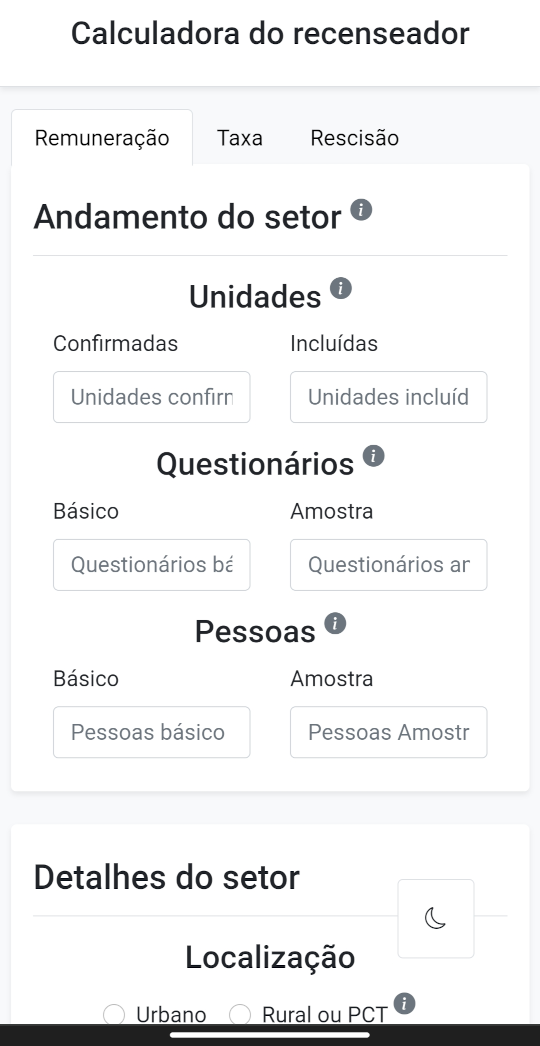
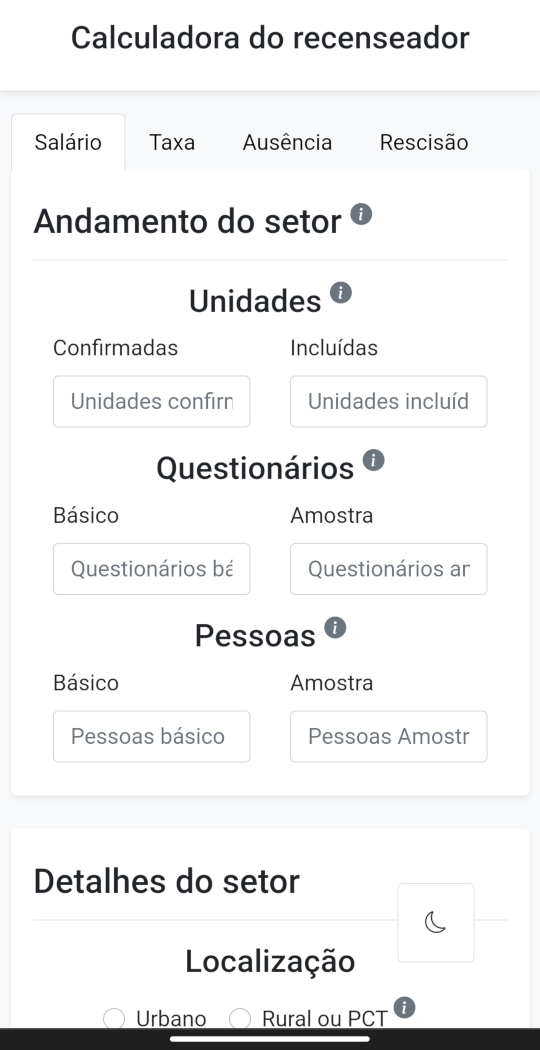
Possibilita o cálculo da taxa de ausência do setor

diff --git a/js/app.min.js b/js/app.min.js
@@ -1,1 +1,1 @@
-const tooltipTriggerList=[].slice.call(document.querySelectorAll('[data-bs-toggle="tooltip"]'));tooltipTriggerList.map(function(e){return new bootstrap.Tooltip(e)});const quizBasic=$("#quizBasic"),quizSample=$("#quizSample"),calcIncome=$("#btnCalcIncome"),calcTax=$("#btnCalcTax"),calcTermination=$("#btnCalcTermination"),formIncome=$("#incomeForm"),formTermination=$("#terminationForm"),formTax=$("#taxForm");let darkMode=localStorage.getItem("prefer"),mode=!0;null!==darkMode&&(darkMode="1"===darkMode),(!window.matchMedia("(prefers-color-scheme: dark)").matches||darkMode)&&(null===darkMode||darkMode)||changeTheme(!1);const currency=e=>e.toLocaleString("pt-br",{style:"currency",currency:"BRL"}),active=e=>mode?e.addClass("bg-dark"):e.addClass("bg-white"),disabled=e=>mode?e.removeClass("bg-dark"):e.removeClass("bg-white");let taxes={1:{urban:{unit:.51,basic:{people:.9,quiz:1.21},sample:{people:1.51,quiz:1.41}},rural:{unit:.56,basic:{people:1.01,quiz:1.34},sample:{people:1.67,quiz:1.57}}},2:{urban:{unit:.56,basic:{people:1.01,quiz:1.34},sample:{people:1.67,quiz:1.57}},rural:{unit:.62,basic:{people:1.1,quiz:1.46},sample:{people:1.83,quiz:1.7}}},3:{urban:{unit:.62,basic:{people:1.1,quiz:1.46},sample:{people:1.83,quiz:1.7}},rural:{unit:.69,basic:{people:1.21,quiz:1.61},sample:{people:2.01,quiz:1.89}}},4:{urban:{unit:.69,basic:{people:1.21,quiz:1.61},sample:{people:2.01,quiz:1.89}},rural:{unit:.75,basic:{people:1.33,quiz:1.76},sample:{people:2.21,quiz:2.07}}},5:{urban:{unit:.75,basic:{people:1.33,quiz:1.76},sample:{people:2.21,quiz:2.07}},rural:{unit:.82,basic:{people:1.46,quiz:1.94},sample:{people:2.45,quiz:2.28}}},6:{urban:{unit:.82,basic:{people:1.46,quiz:1.94},sample:{people:2.45,quiz:2.28}},rural:{unit:.9,basic:{people:1.6,quiz:2.14},sample:{people:2.68,quiz:2.51}}},7:{urban:{unit:.9,basic:{people:1.6,quiz:2.14},sample:{people:2.68,quiz:2.51}},rural:{unit:1,basic:{people:1.76,quiz:2.36},sample:{people:2.94,quiz:2.76}}},8:{urban:{unit:1,basic:{people:1.94,quiz:2.6},sample:{people:3.25,quiz:3.03}},rural:{unit:1.11,basic:{people:2.01,quiz:2.67},sample:{people:3.32,quiz:3.1}}},9:{urban:{unit:1.19,basic:{people:2.33,quiz:3.12},sample:{people:3.9,quiz:3.64}},rural:{unit:1.33,basic:{people:2.42,quiz:3.2},sample:{people:3.98,quiz:3.72}}},10:{urban:{unit:1.31,basic:{people:2.56,quiz:3.43},sample:{people:4.29,quiz:4}},rural:{unit:1.46,basic:{people:2.66,quiz:3.52},sample:{people:4.38,quiz:4.09}}},11:{urban:{unit:1.44,basic:{people:2.82,quiz:3.77},sample:{people:4.72,quiz:4.4}},rural:{unit:1.61,basic:{people:2.93,quiz:3.87},sample:{people:4.82,quiz:4.5}}}};function calcINSS(e){let a={taxe:14,discount:0};return e<=1212?a.taxe=7.5:e<=2427.35?(a.taxe=9,a.discount=18.18):e<=3641.03?(a.taxe=12,a.discount=91.01):e<=7087.22?(a.taxe=14,a.discount=163):a.discount=163-7087.22*.14,e<=7087.22&&(a.discount-=e/100*a.taxe),a}function calcIRRF(e){let a={taxe:0,discount:0};return e<=1903.98?a.taxe=0:e<=2826.65?(a.taxe=7.5,a.discount=142.8):e<=3751.05?(a.taxe=15,a.discount=354.8):e<=4664.68?(a.taxe=22.5,a.discount=636.13):(a.taxe=27.5,a.discount=869.36),a.discount-=e/100*a.taxe,a}function changeTheme(e=!0){(mode=!mode)?($(".form-control").addClass("form-control-dark"),$(".form-check-input").addClass("form-check-dark"),$("body").addClass("bg-black").addClass("text-gray").removeClass("bg-light"),$(".shadow-sm").addClass("bg-dark").removeClass("bg-white"),$(".list-group-item").addClass("bg-dark").addClass("text-gray"),$(".income").addClass("text-gray"),$(".btn").addClass("btn-dark").removeClass("btn-secondary"),$(".dark-mode").addClass("bg-dark"),$(".bg-change").removeClass("bg-white"),$(".bi-moon").addClass("bi-sun").removeClass("bi-moon"),$(".input-group-text").addClass("input-group-text-dark"),$(".nav-tabs").addClass("bg-black").removeClass("bg-light"),$(".nav-tabs a").addClass("text-light").removeClass("text-black"),$(".nav-tabs a.bg-white").addClass("bg-dark").removeClass("bg-white"),e&&localStorage.setItem("prefer","1")):($(".form-control").removeClass("form-control-dark"),$(".form-check-input").removeClass("form-check-dark"),$("body").removeClass("bg-black").removeClass("text-gray").addClass("bg-light"),$(".shadow-sm").removeClass("bg-dark").addClass("bg-white"),$(".list-group-item").removeClass("bg-dark").removeClass("text-gray"),$(".income").removeClass("text-gray"),$(".btn").removeClass("btn-dark").addClass("btn-secondary"),$(".dark-mode").removeClass("bg-dark"),$(".bg-change").addClass("bg-white"),$(".bi-sun").addClass("bi-moon").removeClass("bi-sun"),$(".input-group-text").removeClass("input-group-text-dark"),$(".nav-tabs").removeClass("bg-black").addClass("bg-light"),$(".nav-tabs a").removeClass("text-light").addClass("text-black"),$(".nav-tabs a.bg-dark").removeClass("bg-dark").addClass("bg-white"),e&&localStorage.setItem("prefer","0"))}calcIncome.on("hide.bs.tab",()=>disabled(calcIncome)),calcIncome.on("show.bs.tab",()=>active(calcIncome)),calcTax.on("hide.bs.tab",()=>disabled(calcTax)),calcTax.on("show.bs.tab",()=>active(calcTax)),calcTermination.on("hide.bs.tab",()=>disabled(calcTermination)),calcTermination.on("show.bs.tab",()=>active(calcTermination)),new bootstrap.Tab(calcIncome).show(),quizBasic.on("change",()=>"0"===quizBasic.val()?$("#peopleBasic").val("0"):""),quizSample.on("change",()=>"0"===quizSample.val()?$("#peopleSample").val("0"):""),formIncome.on("submit",function(e){if(e.preventDefault(),this.checkValidity()){let a=Object.fromEntries(formIncome.serializeArray().map(({name:e,value:a})=>[e,a])),l=0,t=0,i,s,o=a.taxe,n={},r=a.locale,c=a.number_sons,u=$("#outRangeSalary"),m=parseInt(a.units_confirmed)+parseInt(a.units_included),p=$("#quantitySons"),d={basic:parseInt(a.quiz_basic),sample:parseInt(a.quiz_sample)},b={basic:parseInt(a.people_basic),sample:parseInt(a.people_sample)};p.removeClass("d-none"),u.addClass("d-none"),o=taxes[o][r],n.units=m*o.unit,n.quiz=d.basic*o.basic.quiz+d.sample*o.sample.quiz,n.people=b.basic*o.basic.people+b.sample*o.sample.people,t+=n.units+n.quiz+n.people,$("#units").html(m),$("#quiz").html(d.basic+d.sample),$("#people").html(b.basic+b.sample),$("#unitsValue").html(currency(n.units)),$("#quizValue").html(currency(n.quiz)),$("#peopleValue").html(currency(n.people)),t<=1655.98&&t>0?($("#quantitySonsValue").html(c),l=56.47*c):(p.addClass("d-none"),u.removeClass("d-none")),$("#familySalaryValue").html(currency(l)),i=calcINSS(t),$("#percentInss").html(i.taxe.toLocaleString("pt-br")),$("#inssValue").html(currency(i.discount)),t+=i.discount,s=calcIRRF(t),$("#percentIrrf").html(s.taxe.toLocaleString("pt-br")),$("#irrfValue").html(currency(s.discount)),t+=s.discount,t+=l,$("#incomeValue").html(currency(t)),$("#income").removeClass("d-none"),window.location.href="#income",$("#calculateBtn").html("Atualizar")}else e.stopPropagation();$(formIncome).addClass("was-validated")}),formTax.on("submit",function(e){e.preventDefault();let a=$("#calcTaxSuccess"),l=$("#calcTaxError");if(a.addClass("d-none"),l.addClass("d-none"),this.checkValidity()){let t=Object.fromEntries(formTax.serializeArray().map(({name:e,value:a})=>[e,a])),i=parseFloat(t.value_units),s=t.tax_locale,o=parseInt(t.units_visited),n=parseFloat((i/o).toFixed(2)),r=0;for(let c=1;c<=11;c++)taxes[c][s].unit===n&&(r=c);0!==r?($("#taxValue").html(r),a.removeClass("d-none")):l.removeClass("d-none"),$("#calculateTaxBtn").html("Atualizar")}else e.stopPropagation();formTax.addClass("was-validated")}),$("#changeMode").on("click",()=>{changeTheme()}),formTermination.on("submit",function(e){if(e.preventDefault(),this.checkValidity()){let a=Object.fromEntries(formTermination.serializeArray().map(({name:e,value:a})=>[e,a])),l=parseInt(a.days_worked),t={christmas_bonus:l%30>=15?Math.floor(l/30)+1:Math.floor(l/30),vacation:l%30>=14?Math.floor(l/30)+1:Math.floor(l/30)},i=parseFloat((parseFloat(a.income_total)/l*30).toFixed(2)),s=i*(t.vacation/12),o=parseFloat((s/3).toFixed(2)),n=i*(t.christmas_bonus/12),r=s+o+n;$("#salary").html(currency(i)),$("#christmasBonus").html(currency(n));let c=calcINSS(n),u=calcIRRF(n-c.discount);r+=c.discount-u.discount,$("#vacation").html(currency(s)),$("#vacationBonus").html(currency(o)),$("#incomeTerminationTotal").html(currency(r)),$("#percentInssTermination").html(c.taxe.toLocaleString("pt-br")),$("#inssTermination").html(currency(c.discount)),$("#percentIrrfTermination").html(u.taxe.toLocaleString("pt-br")),$("#irrfTermination").html(currency(u.discount)),$("#incomeTermination").removeClass("d-none"),window.location.href="#incomeTermination",$("#calculateTerminationBtn").html("Atualizar")}else e.stopPropagation();formTermination.addClass("was-validated")});
+let darkMode=localStorage.getItem("prefer"),mode=!0;null!==darkMode&&(darkMode="1"===darkMode),(!window.matchMedia("(prefers-color-scheme: dark)").matches||darkMode)&&(null===darkMode||darkMode)||changeTheme(!1);const quizBasic=$("#quizBasic"),quizSample=$("#quizSample"),tabLink=$(".tab-link"),formTax=$("#taxForm"),formIncome=$("#incomeForm"),formTermination=$("#terminationForm"),formAbsence=$("#absenceForm"),currency=e=>e.toLocaleString("pt-br",{style:"currency",currency:"BRL"}),taxes={1:{urban:{unit:.51,basic:{people:.9,quiz:1.21},sample:{people:1.51,quiz:1.41}},rural:{unit:.56,basic:{people:1.01,quiz:1.34},sample:{people:1.67,quiz:1.57}}},2:{urban:{unit:.56,basic:{people:1.01,quiz:1.34},sample:{people:1.67,quiz:1.57}},rural:{unit:.62,basic:{people:1.1,quiz:1.46},sample:{people:1.83,quiz:1.7}}},3:{urban:{unit:.62,basic:{people:1.1,quiz:1.46},sample:{people:1.83,quiz:1.7}},rural:{unit:.69,basic:{people:1.21,quiz:1.61},sample:{people:2.01,quiz:1.89}}},4:{urban:{unit:.69,basic:{people:1.21,quiz:1.61},sample:{people:2.01,quiz:1.89}},rural:{unit:.75,basic:{people:1.33,quiz:1.76},sample:{people:2.21,quiz:2.07}}},5:{urban:{unit:.75,basic:{people:1.33,quiz:1.76},sample:{people:2.21,quiz:2.07}},rural:{unit:.82,basic:{people:1.46,quiz:1.94},sample:{people:2.45,quiz:2.28}}},6:{urban:{unit:.82,basic:{people:1.46,quiz:1.94},sample:{people:2.45,quiz:2.28}},rural:{unit:.9,basic:{people:1.6,quiz:2.14},sample:{people:2.68,quiz:2.51}}},7:{urban:{unit:.9,basic:{people:1.6,quiz:2.14},sample:{people:2.68,quiz:2.51}},rural:{unit:1,basic:{people:1.76,quiz:2.36},sample:{people:2.94,quiz:2.76}}},8:{urban:{unit:1,basic:{people:1.94,quiz:2.6},sample:{people:3.25,quiz:3.03}},rural:{unit:1.11,basic:{people:2.01,quiz:2.67},sample:{people:3.32,quiz:3.1}}},9:{urban:{unit:1.19,basic:{people:2.33,quiz:3.12},sample:{people:3.9,quiz:3.64}},rural:{unit:1.33,basic:{people:2.42,quiz:3.2},sample:{people:3.98,quiz:3.72}}},10:{urban:{unit:1.31,basic:{people:2.56,quiz:3.43},sample:{people:4.29,quiz:4}},rural:{unit:1.46,basic:{people:2.66,quiz:3.52},sample:{people:4.38,quiz:4.09}}},11:{urban:{unit:1.44,basic:{people:2.82,quiz:3.77},sample:{people:4.72,quiz:4.4}},rural:{unit:1.61,basic:{people:2.93,quiz:3.87},sample:{people:4.82,quiz:4.5}}}};function calcINSS(e){let a={taxe:14,discount:0};return e<=1212?a.taxe=7.5:e<=2427.35?(a.taxe=9,a.discount=18.18):e<=3641.03?(a.taxe=12,a.discount=91.01):e<=7087.22?(a.taxe=14,a.discount=163):a.discount=163-7087.22*.14,e<=7087.22&&(a.discount-=e/100*a.taxe),a}function calcIRRF(e){let a={taxe:0,discount:0};return e<=1903.98?a.taxe=0:e<=2826.65?(a.taxe=7.5,a.discount=142.8):e<=3751.05?(a.taxe=15,a.discount=354.8):e<=4664.68?(a.taxe=22.5,a.discount=636.13):(a.taxe=27.5,a.discount=869.36),a.discount-=e/100*a.taxe,a}function changeTheme(e=!0){(mode=!mode)?($(".form-control").addClass("form-control-dark"),$(".form-check-input").addClass("form-check-dark"),$("body").addClass("bg-black").addClass("text-gray").removeClass("bg-light"),$(".shadow-sm").addClass("bg-dark").removeClass("bg-white"),$(".list-group-item").addClass("bg-dark").addClass("text-gray"),$(".income").addClass("text-gray"),$(".btn").addClass("btn-dark").removeClass("btn-secondary"),$(".dark-mode").addClass("bg-dark"),$(".bg-change").removeClass("bg-white"),$(".bi-moon").addClass("bi-sun").removeClass("bi-moon"),$(".input-group-text").addClass("input-group-text-dark"),$(".nav-tabs").addClass("bg-black").removeClass("bg-light"),$(".nav-tabs a").addClass("text-light").removeClass("text-black"),$(".nav-tabs a.bg-white").addClass("bg-dark").removeClass("bg-white"),e&&localStorage.setItem("prefer","1")):($(".form-control").removeClass("form-control-dark"),$(".form-check-input").removeClass("form-check-dark"),$("body").removeClass("bg-black").removeClass("text-gray").addClass("bg-light"),$(".shadow-sm").removeClass("bg-dark").addClass("bg-white"),$(".list-group-item").removeClass("bg-dark").removeClass("text-gray"),$(".income").removeClass("text-gray"),$(".btn").removeClass("btn-dark").addClass("btn-secondary"),$(".dark-mode").removeClass("bg-dark"),$(".bg-change").addClass("bg-white"),$(".bi-sun").addClass("bi-moon").removeClass("bi-sun"),$(".input-group-text").removeClass("input-group-text-dark"),$(".nav-tabs").removeClass("bg-black").addClass("bg-light"),$(".nav-tabs a").removeClass("text-light").addClass("text-black"),$(".nav-tabs a.bg-dark").removeClass("bg-dark").addClass("bg-white"),e&&localStorage.setItem("prefer","0"))}tabLink.on("hide.bs.tab",function(){mode?$(this).removeClass("bg-dark"):$(this).removeClass("bg-white")}),tabLink.on("show.bs.tab",function(){mode?$(this).addClass("bg-dark"):$(this).addClass("bg-white")}),new bootstrap.Tab($("#btnCalcIncome")).show(),quizBasic.on("change",()=>"0"===quizBasic.val()?$("#peopleBasic").val("0"):""),quizSample.on("change",()=>"0"===quizSample.val()?$("#peopleSample").val("0"):""),formIncome.on("submit",function(e){if(e.preventDefault(),this.checkValidity()){let a=Object.fromEntries(formIncome.serializeArray().map(({name:e,value:a})=>[e,a])),t=0,i=0,s,l,o=a.taxe,n={},r=a.locale,u=a.number_sons,c=$("#outRangeSalary"),m=parseInt(a.units_confirmed)+parseInt(a.units_included),p=$("#quantitySons"),d={basic:parseInt(a.quiz_basic),sample:parseInt(a.quiz_sample)},b={basic:parseInt(a.people_basic),sample:parseInt(a.people_sample)};p.removeClass("d-none"),c.addClass("d-none"),o=taxes[o][r],n.units=m*o.unit,n.quiz=d.basic*o.basic.quiz+d.sample*o.sample.quiz,n.people=b.basic*o.basic.people+b.sample*o.sample.people,i+=n.units+n.quiz+n.people,$("#units").html(m),$("#quiz").html(d.basic+d.sample),$("#people").html(b.basic+b.sample),$("#unitsValue").html(currency(n.units)),$("#quizValue").html(currency(n.quiz)),$("#peopleValue").html(currency(n.people)),i<=1655.98&&i>0?($("#quantitySonsValue").html(u),t=56.47*u):(p.addClass("d-none"),c.removeClass("d-none")),$("#familySalaryValue").html(currency(t)),s=calcINSS(i),$("#percentInss").html(s.taxe.toLocaleString("pt-br")),$("#inssValue").html(currency(s.discount)),i+=s.discount,l=calcIRRF(i),$("#percentIrrf").html(l.taxe.toLocaleString("pt-br")),$("#irrfValue").html(currency(l.discount)),i+=l.discount,i+=t,$("#incomeValue").html(currency(i)),$("#income").removeClass("d-none"),window.location.href="#income",$("#calculateBtn").html("Atualizar")}else e.stopPropagation();formIncome.addClass("was-validated")}),formTax.on("submit",function(e){e.preventDefault();let a=$("#calcTaxSuccess"),t=$("#calcTaxError");if(a.addClass("d-none"),t.addClass("d-none"),this.checkValidity()){let i=Object.fromEntries(formTax.serializeArray().map(({name:e,value:a})=>[e,a])),s=parseFloat(i.value_units),l=i.tax_locale,o=parseInt(i.units_visited),n=parseFloat((s/o).toFixed(2)),r=0;for(let u=1;u<=11;u++)taxes[u][l].unit===n&&(r=u);0!==r?($("#taxValue").html(r),a.removeClass("d-none")):t.removeClass("d-none"),$("#calculateTaxBtn").html("Atualizar")}else e.stopPropagation();formTax.addClass("was-validated")}),formAbsence.on("submit",function(e){if(e.preventDefault(),this.checkValidity()){let a=Object.fromEntries(formAbsence.serializeArray().map(({name:e,value:a})=>[e,a])),t=parseInt(a.domicile_occupied),i={quantity:t-parseInt(a.quiz_finalized),taxe:null},s={taxe:parseInt(a.goal_absence),quantity:null};s.quantity=t*s.taxe/100,i.taxe=parseFloat((i.quantity/t*100).toFixed());let l=i.quantity-s.quantity;$("#absenceQuantity").html(i.quantity),$("#absenceTaxe").html(i.taxe.toLocaleString("pt-br")),$("#goalAbsenceQuantity").html(s.quantity.toLocaleString("pt-br")),$("#goalAbsenceDiff").html(l>0?Math.ceil(l):0),$("#absenceDetails").removeClass("d-none"),window.location.href="#absenceDetails",$("#calculateAbsenceBtn").html("Atualizar")}else e.stopPropagation();formAbsence.addClass("was-validated")}),formTermination.on("submit",function(e){if(e.preventDefault(),this.checkValidity()){let a=Object.fromEntries(formTermination.serializeArray().map(({name:e,value:a})=>[e,a])),t=parseInt(a.days_worked),i={christmas_bonus:t%30>=15?Math.floor(t/30)+1:Math.floor(t/30),vacation:t%30>=14?Math.floor(t/30)+1:Math.floor(t/30)},s=parseFloat((parseFloat(a.income_total)/t*30).toFixed(2)),l=s*(i.vacation/12),o=parseFloat((l/3).toFixed(2)),n=s*(i.christmas_bonus/12),r=l+o+n;$("#salary").html(currency(s)),$("#christmasBonus").html(currency(n));let u=calcINSS(n),c=calcIRRF(n-u.discount);r+=u.discount-c.discount,$("#vacation").html(currency(l)),$("#vacationBonus").html(currency(o)),$("#incomeTerminationTotal").html(currency(r)),$("#percentInssTermination").html(u.taxe.toLocaleString("pt-br")),$("#inssTermination").html(currency(u.discount)),$("#percentIrrfTermination").html(c.taxe.toLocaleString("pt-br")),$("#irrfTermination").html(currency(c.discount)),$("#incomeTermination").removeClass("d-none"),window.location.href="#incomeTermination",$("#calculateTerminationBtn").html("Atualizar")}else e.stopPropagation();formTermination.addClass("was-validated")}),$("#changeMode").on("click",changeTheme),$('[data-bs-toggle="tooltip"]').toArray().map(e=>new bootstrap.Tooltip(e));

diff --git a/index.html b/index.html
@@ -20,9 +20,9 @@
     <meta content="Calculadora do recenseador" property="og:title"/>
     <meta content="index, follow" name="robots"/>
     <meta content="Leone Oliveira" name="author"/>
-    <meta content="Permite o cálculo da sua remuneração, taxa ou rescisão de forma precisa com todos os benefícios e descontos. Calcule agora mesmo!"
+    <meta content="Permite o cálculo da remuneração do recenseador, taxa do setor, taxa de ausência e do valor da rescisão de forma precisa com todos os benefícios e descontos. Calcule agora mesmo!"
           name="description"/>
-    <meta content="Permite o cálculo da sua remuneração, taxa ou rescisão de forma precisa com todos os benefícios e descontos. Calcule agora mesmo!"
+    <meta content="Permite o cálculo da remuneração do recenseador, taxa do setor, taxa de ausência e do valor da rescisão de forma precisa com todos os benefícios e descontos. Calcule agora mesmo!"
           name="og:description"/>
     <link rel="stylesheet" href="/apps/ibge/css/style.min.css">
 </head>
@@ -33,19 +33,25 @@
 <main class="container mb-3 px-2">
     <ul class="nav nav-tabs bg-black border-bottom-0" role="tablist" aria-label="Calcular">
         <li class="nav-item" role="presentation">
-            <a class="nav-link text-light" href="#calcIncome" data-bs-toggle="tab" role="tab"
+            <a class="nav-link text-light tab-link" data-bs-toggle="tab" href="#calcIncome" role="tab"
                id="btnCalcIncome" aria-selected="false" aria-controls="calcIncome">
-                Remuneração
+                Salário
             </a>
         </li>
         <li class="nav-item" role="presentation">
-            <a class="nav-link text-light" href="#calcTax" data-bs-toggle="tab" role="tab" id="btnCalcTax"
+            <a class="nav-link text-light tab-link" data-bs-toggle="tab" href="#calcTax" id="btnCalcTax" role="tab"
                aria-selected="false" aria-controls="calcTax">
                 Taxa
             </a>
         </li>
         <li class="nav-item" role="presentation">
-            <a class="nav-link text-light" href="#calcTermination" data-bs-toggle="tab" role="tab"
+            <a aria-controls="calcAbsence" aria-selected="false" class="nav-link text-light tab-link" data-bs-toggle="tab"
+               href="#calcAbsence" id="btnCalcAbsence" role="tab">
+                Ausência
+            </a>
+        </li>
+        <li class="nav-item" role="presentation">
+            <a class="nav-link text-light tab-link" data-bs-toggle="tab" href="#calcTermination" role="tab"
                id="btnCalcTermination" aria-selected="false" aria-controls="calcTermination">
                 Rescisão
             </a>
@@ -265,7 +271,7 @@
                             </div>
                             <span class="text-muted" id="peopleValue">R$ 0</span>
                         </li>
-                        <li class="list-group-item bg-dark text-gray list-group-item-success d-flex justify-content-between">
+                        <li class="list-group-item list-group-item-success bg-dark text-gray d-flex justify-content-between">
                             <div>
                                 <h6 class="my-0">Salário família</h6>
                                 <span class="small text-success" id="familySalary">
@@ -283,7 +289,7 @@
                             </div>
                             <span class="text-success" id="familySalaryValue">+ R$ 0</span>
                         </li>
-                        <li class="list-group-item bg-dark text-gray list-group-item-danger d-flex justify-content-between">
+                        <li class="list-group-item list-group-item-danger bg-dark text-gray d-flex justify-content-between">
                             <div>
                                 <h6 class="my-0">INSS</h6>
                                 <span class="small text-danger">
@@ -296,7 +302,7 @@
                             </div>
                             <span class="text-danger" id="inssValue">− R$ 0</span>
                         </li>
-                        <li class="list-group-item bg-dark text-gray list-group-item-danger d-flex justify-content-between">
+                        <li class="list-group-item list-group-item-danger bg-dark text-gray d-flex justify-content-between">
                             <div>
                                 <h6 class="my-0">IRRF</h6>
                                 <span class="small text-danger">
@@ -382,6 +388,98 @@
                 </div>
             </form>
         </div>
+        <div aria-labelledby="btnCalcAbsence" class="tab-pane fade" id="calcAbsence" role="tabpanel">
+            <form id="absenceForm" novalidate>
+                <div class="shadow-sm rounded bg-dark px-3 py-4">
+                    <div class="title pb-1 border-bottom">
+                        <h2>Ausências/Recusas</h2>
+                    </div>
+                    <div class="content">
+                        <h3 class="text-center mt-3">Domicílios</h3>
+                        <div class="col-12 col-sm-10 col-md-8 col-lg-6 mx-auto">
+                            <label class="form-label" for="domicileOccupied">
+                                Domicílios ocupados (DPPO e DPIO)
+                                <sup class="text-muted fs-6" data-bs-placement="right" data-bs-toggle="tooltip"
+                                     title="Andamento do setor -> 4 Resumo Espécies (Espécie 01 + Espécie 05)">
+                                    <i class="bi bi-info-circle-fill"></i>
+                                </sup>
+                            </label>
+                            <input class="form-control form-control-dark" id="domicileOccupied" min="1" name="domicile_occupied"
+                                   placeholder="Domicílios ocupados" required type="number">
+                            <div class="invalid-feedback text-center">Este campo é obrigatório!</div>
+                        </div>
+                        <h3 class="text-center mt-3">Questionários</h3>
+                        <div class="col-12 col-sm-10 col-md-8 col-lg-6 mx-auto">
+                            <label class="form-label" for="quizFinalized">
+                                Questionários finalizados
+                                <sup class="text-muted fs-6" data-bs-placement="right" data-bs-toggle="tooltip"
+                                     title="Andamento do setor -> 8 Total Questionários">
+                                    <i class="bi bi-info-circle-fill"></i>
+                                </sup>
+                            </label>
+                            <input class="form-control form-control-dark" id="quizFinalized" min="0" name="quiz_finalized"
+                                   placeholder="Questionários finalizados" required type="number">
+                            <div class="invalid-feedback text-center">Este campo é obrigatório!</div>
+                        </div>
+                        <h3 class="text-center mt-3">Meta</h3>
+                        <div class="col-12 col-sm-10 col-md-8 col-lg-6 mx-auto">
+                            <label class="form-label" for="goalAbsence">
+                                Máximo de Ausências/Recusas
+                                <sup class="text-muted fs-6" data-bs-placement="right" data-bs-toggle="tooltip"
+                                     title="A meta geral é 5% porém as Unidades Estaduais podem fixar uma meta menor">
+                                    <i class="bi bi-info-circle-fill"></i>
+                                </sup>
+                            </label>
+                            <div class="input-group">
+                                <input class="form-control form-control-dark" id="goalAbsence" max="5" min="0"
+                                       name="goal_absence" placeholder="Questionários finalizados" required type="number"
+                                       value="5">
+                                <span class="input-group-text input-group-text-dark">%</span>
+                                <div class="invalid-feedback text-center">Este campo é obrigatório!</div>
+                            </div>
+                        </div>
+                    </div>
+                </div>
+                <div class="d-grid col-7 mx-auto mt-3">
+                    <button class="btn btn-dark btn-lg" id="calculateAbsenceBtn">Calcular</button>
+                </div>
+                <div class="row mt-4 pt-4 text-gray px-3 d-none income" id="absenceDetails">
+                    <h3 class="mb-3">Detalhes</h3>
+                    <ul class="list-group mb-3 pe-0">
+                        <li class="list-group-item bg-dark text-gray d-flex justify-content-between lh-sm">
+                            <div>
+                                <h6 class="my-0">Ausentes</h6>
+                                <span class="small text-muted">Total de domicílios sem questionário.</span>
+                            </div>
+                            <span class="text-muted" id="absenceQuantity">0</span>
+                        </li>
+                        <li class="list-group-item bg-dark text-gray d-flex justify-content-between lh-sm">
+                            <div>
+                                <h6 class="my-0">Taxa de ausência</h6>
+                                <span class="small text-muted">Porcentagem de domicílios sem questionário.</span>
+                            </div>
+                            <span class="text-muted">
+                                <span id="absenceTaxe">0</span>%
+                            </span>
+                        </li>
+                        <li class="list-group-item list-group-item-success bg-dark text-gray d-flex justify-content-between lh-sm">
+                            <div>
+                                <h6 class="my-0">Meta de ausência</h6>
+                                <span class="small text-success">Meta de domicílios sem questionário.</span>
+                            </div>
+                            <span class="text-success" id="goalAbsenceQuantity">0</span>
+                        </li>
+                        <li class="list-group-item list-group-item-danger bg-dark text-gray d-flex justify-content-between lh-sm">
+                            <div>
+                                <h6 class="my-0">Ausências a reverter</h6>
+                                <span class="small text-danger">Questionários que precisam ser realizados.</span>
+                            </div>
+                            <span class="text-danger" id="goalAbsenceDiff">0</span>
+                        </li>
+                    </ul>
+                </div>
+            </form>
+        </div>
         <div class="tab-pane fade" id="calcTermination" aria-labelledby="btnCalcTermination" role="tabpanel">
             <form id="terminationForm" novalidate>
                 <div class="shadow-sm rounded bg-dark px-3 py-4">
@@ -452,14 +550,14 @@
                             </div>
                             <span class="text-success" id="vacation">+ R$ 0</span>
                         </li>
-                        <li class="list-group-item bg-dark text-gray list-group-item-success d-flex justify-content-between">
+                        <li class="list-group-item list-group-item-success bg-dark text-gray d-flex justify-content-between">
                             <div>
                                 <h6 class="my-0">1/3 de férias</h6>
                                 <span class="small text-success">Adicional de 1/3 de férias.</span>
                             </div>
                             <span class="text-success" id="vacationBonus">+ R$ 0</span>
                         </li>
-                        <li class="list-group-item bg-dark text-gray list-group-item-danger d-flex justify-content-between">
+                        <li class="list-group-item list-group-item-danger bg-dark text-gray d-flex justify-content-between">
                             <div>
                                 <h6 class="my-0">INSS</h6>
                                 <span class="small text-danger">
@@ -468,7 +566,7 @@
                             </div>
                             <span class="text-danger" id="inssTermination">− R$ 0</span>
                         </li>
-                        <li class="list-group-item bg-dark text-gray list-group-item-danger d-flex justify-content-between">
+                        <li class="list-group-item list-group-item-danger bg-dark text-gray d-flex justify-content-between">
                             <div>
                                 <h6 class="my-0">IRRF</h6>
                                 <span class="small text-danger">

diff --git a/js/app.js b/js/app.js
@@ -1,24 +1,16 @@
-const tooltipTriggerList = [].slice.call(document.querySelectorAll('[data-bs-toggle="tooltip"]'))
-tooltipTriggerList.map(function (tooltipTriggerEl) {
-    return new bootstrap.Tooltip(tooltipTriggerEl)
-})
-
-const quizBasic = $('#quizBasic'), quizSample = $('#quizSample'), calcIncome = $('#btnCalcIncome')
-const calcTax = $('#btnCalcTax'), calcTermination = $('#btnCalcTermination')
-const formIncome = $('#incomeForm'), formTermination = $('#terminationForm'), formTax = $('#taxForm')
-
 let darkMode = localStorage.getItem('prefer'), mode = true
 if (darkMode !== null) darkMode = (darkMode === '1')
 
-if ((window.matchMedia('(prefers-color-scheme: dark)').matches && !darkMode) || (darkMode !== null && !darkMode)){
+if ((window.matchMedia('(prefers-color-scheme: dark)').matches && !darkMode) || (darkMode !== null && !darkMode)) {
     changeTheme(false)
 }
 
-const currency = (number) => number.toLocaleString('pt-br', {style: 'currency', currency: 'BRL'})
-const active = (tag) => (mode) ? tag.addClass('bg-dark') : tag.addClass('bg-white')
-const disabled = (tag) => (mode) ? tag.removeClass('bg-dark') : tag.removeClass('bg-white')
+const quizBasic = $('#quizBasic'), quizSample = $('#quizSample'), tabLink = $('.tab-link'), formTax = $('#taxForm')
+const formIncome = $('#incomeForm'), formTermination = $('#terminationForm'), formAbsence = $('#absenceForm')
 
-let taxes = {
+const currency = (number) => number.toLocaleString('pt-br', {style: 'currency', currency: 'BRL'})
+
+const taxes = {
     1: {
         urban: {
             unit: 0.51,
@@ -285,16 +277,17 @@ let taxes = {
     },
 }
 
-calcIncome.on('hide.bs.tab', () => disabled(calcIncome))
-calcIncome.on('show.bs.tab', () => active(calcIncome))
+tabLink.on('hide.bs.tab', function () {
+    if (mode) $(this).removeClass('bg-dark')
+    else $(this).removeClass('bg-white')
+})
 
-calcTax.on('hide.bs.tab', () => disabled(calcTax))
-calcTax.on('show.bs.tab', () => active(calcTax))
+tabLink.on('show.bs.tab', function () {
+    if (mode) $(this).addClass('bg-dark')
+    else $(this).addClass('bg-white')
+})
 
-calcTermination.on('hide.bs.tab', () => disabled(calcTermination))
-calcTermination.on('show.bs.tab', () => active(calcTermination))
-
-new bootstrap.Tab(calcIncome).show()
+new bootstrap.Tab($('#btnCalcIncome')).show()
 
 quizBasic.on('change', () => (quizBasic.val() === '0') ? $('#peopleBasic').val('0') : '')
 
@@ -372,7 +365,7 @@ formIncome.on('submit', function (e) {
         $('#calculateBtn').html('Atualizar')
     }
 
-    $(formIncome).addClass('was-validated')
+    formIncome.addClass('was-validated')
 })
 
 formTax.on('submit', function (e) {
@@ -408,8 +401,41 @@ formTax.on('submit', function (e) {
     formTax.addClass('was-validated')
 })
 
-$('#changeMode').on('click', () => {
-    changeTheme()
+formAbsence.on('submit', function (e) {
+    e.preventDefault()
+
+    if (!this.checkValidity()) {
+        e.stopPropagation()
+    } else {
+        const data = Object.fromEntries(formAbsence.serializeArray().map(({name, value}) => [name, value]))
+        const domicile = parseInt(data.domicile_occupied)
+        let absence = {
+            quantity: domicile - parseInt(data.quiz_finalized),
+            taxe: null
+        }
+
+        let goals = {
+            taxe: parseInt(data.goal_absence),
+            quantity: null
+        }
+
+        goals.quantity = domicile * goals.taxe / 100
+
+        absence.taxe = parseFloat((absence.quantity / domicile * 100).toFixed())
+
+        const diff = absence.quantity - goals.quantity
+
+        $('#absenceQuantity').html(absence.quantity)
+        $('#absenceTaxe').html(absence.taxe.toLocaleString('pt-br'))
+        $('#goalAbsenceQuantity').html(goals.quantity.toLocaleString('pt-br'))
+        $('#goalAbsenceDiff').html((diff > 0) ? Math.ceil(diff) : 0)
+        $('#absenceDetails').removeClass('d-none')
+
+        window.location.href = '#absenceDetails'
+        $('#calculateAbsenceBtn').html('Atualizar')
+    }
+
+    formAbsence.addClass('was-validated')
 })
 
 formTermination.on('submit', function (e) {
@@ -455,15 +481,18 @@ formTermination.on('submit', function (e) {
     formTermination.addClass('was-validated')
 })
 
-function calcINSS(income){
+$('#changeMode').on('click', changeTheme)
+
+$('[data-bs-toggle="tooltip"]').toArray().map(tooltipTrigger => new bootstrap.Tooltip(tooltipTrigger))
+
+function calcINSS(income) {
     let inss = {taxe: 14, discount: 0}
 
     if (income <= 1212) inss.taxe = 7.5
-    else if (income <= 2427.35){
+    else if (income <= 2427.35) {
         inss.taxe = 9
         inss.discount = 18.18
-    }
-    else if (income <= 3641.03){
+    } else if (income <= 3641.03) {
         inss.taxe = 12
         inss.discount = 91.01
     }
